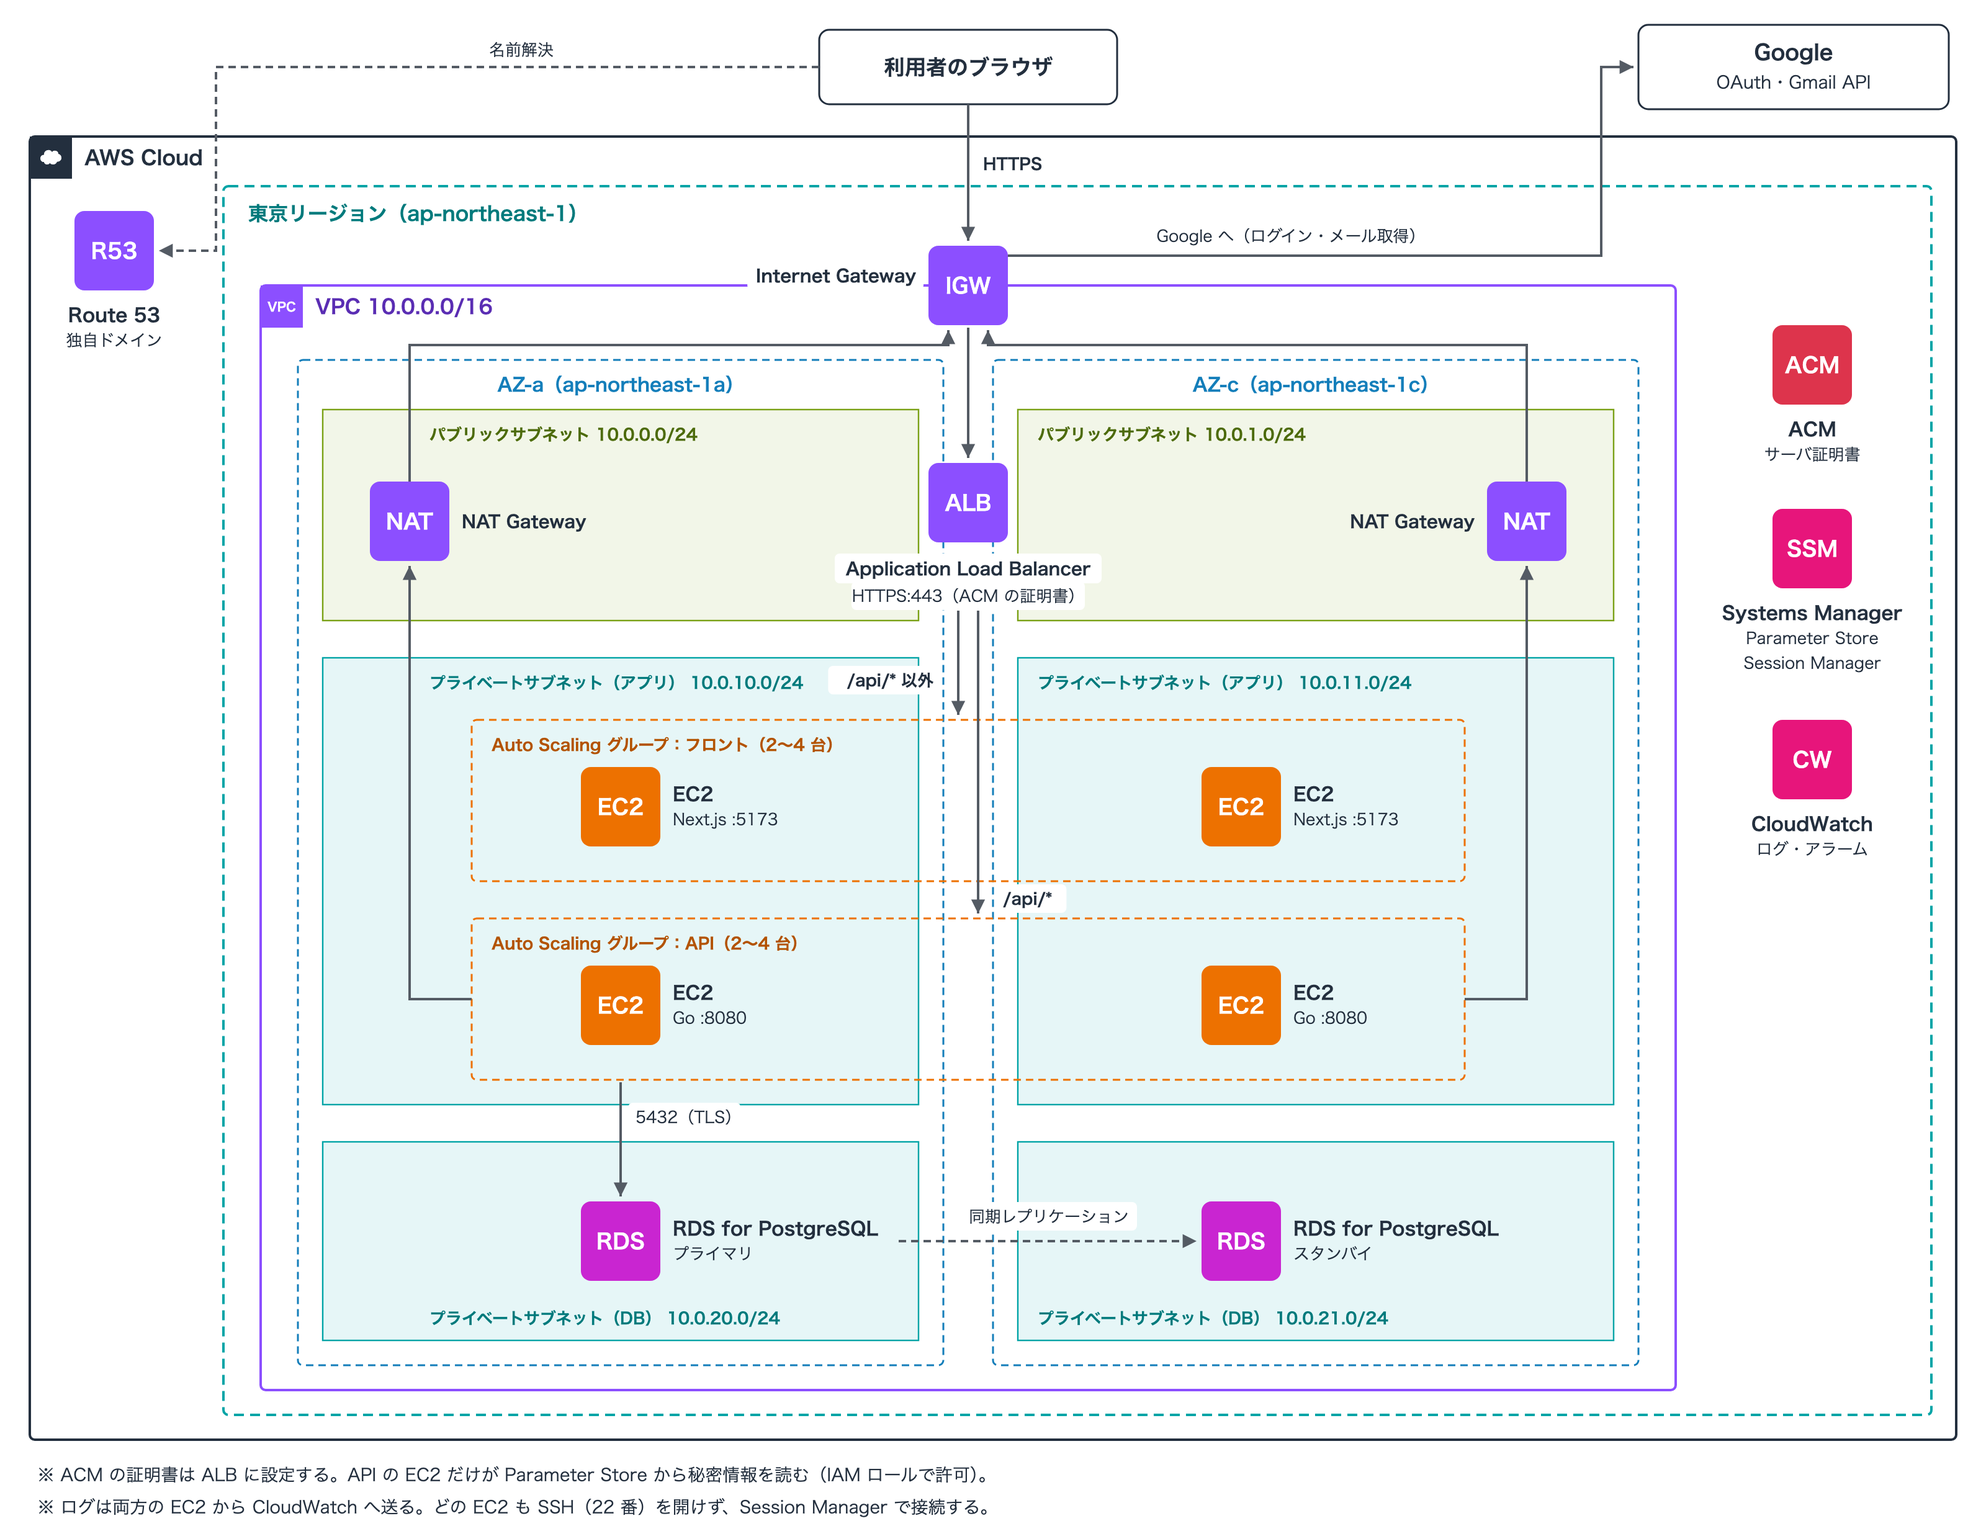
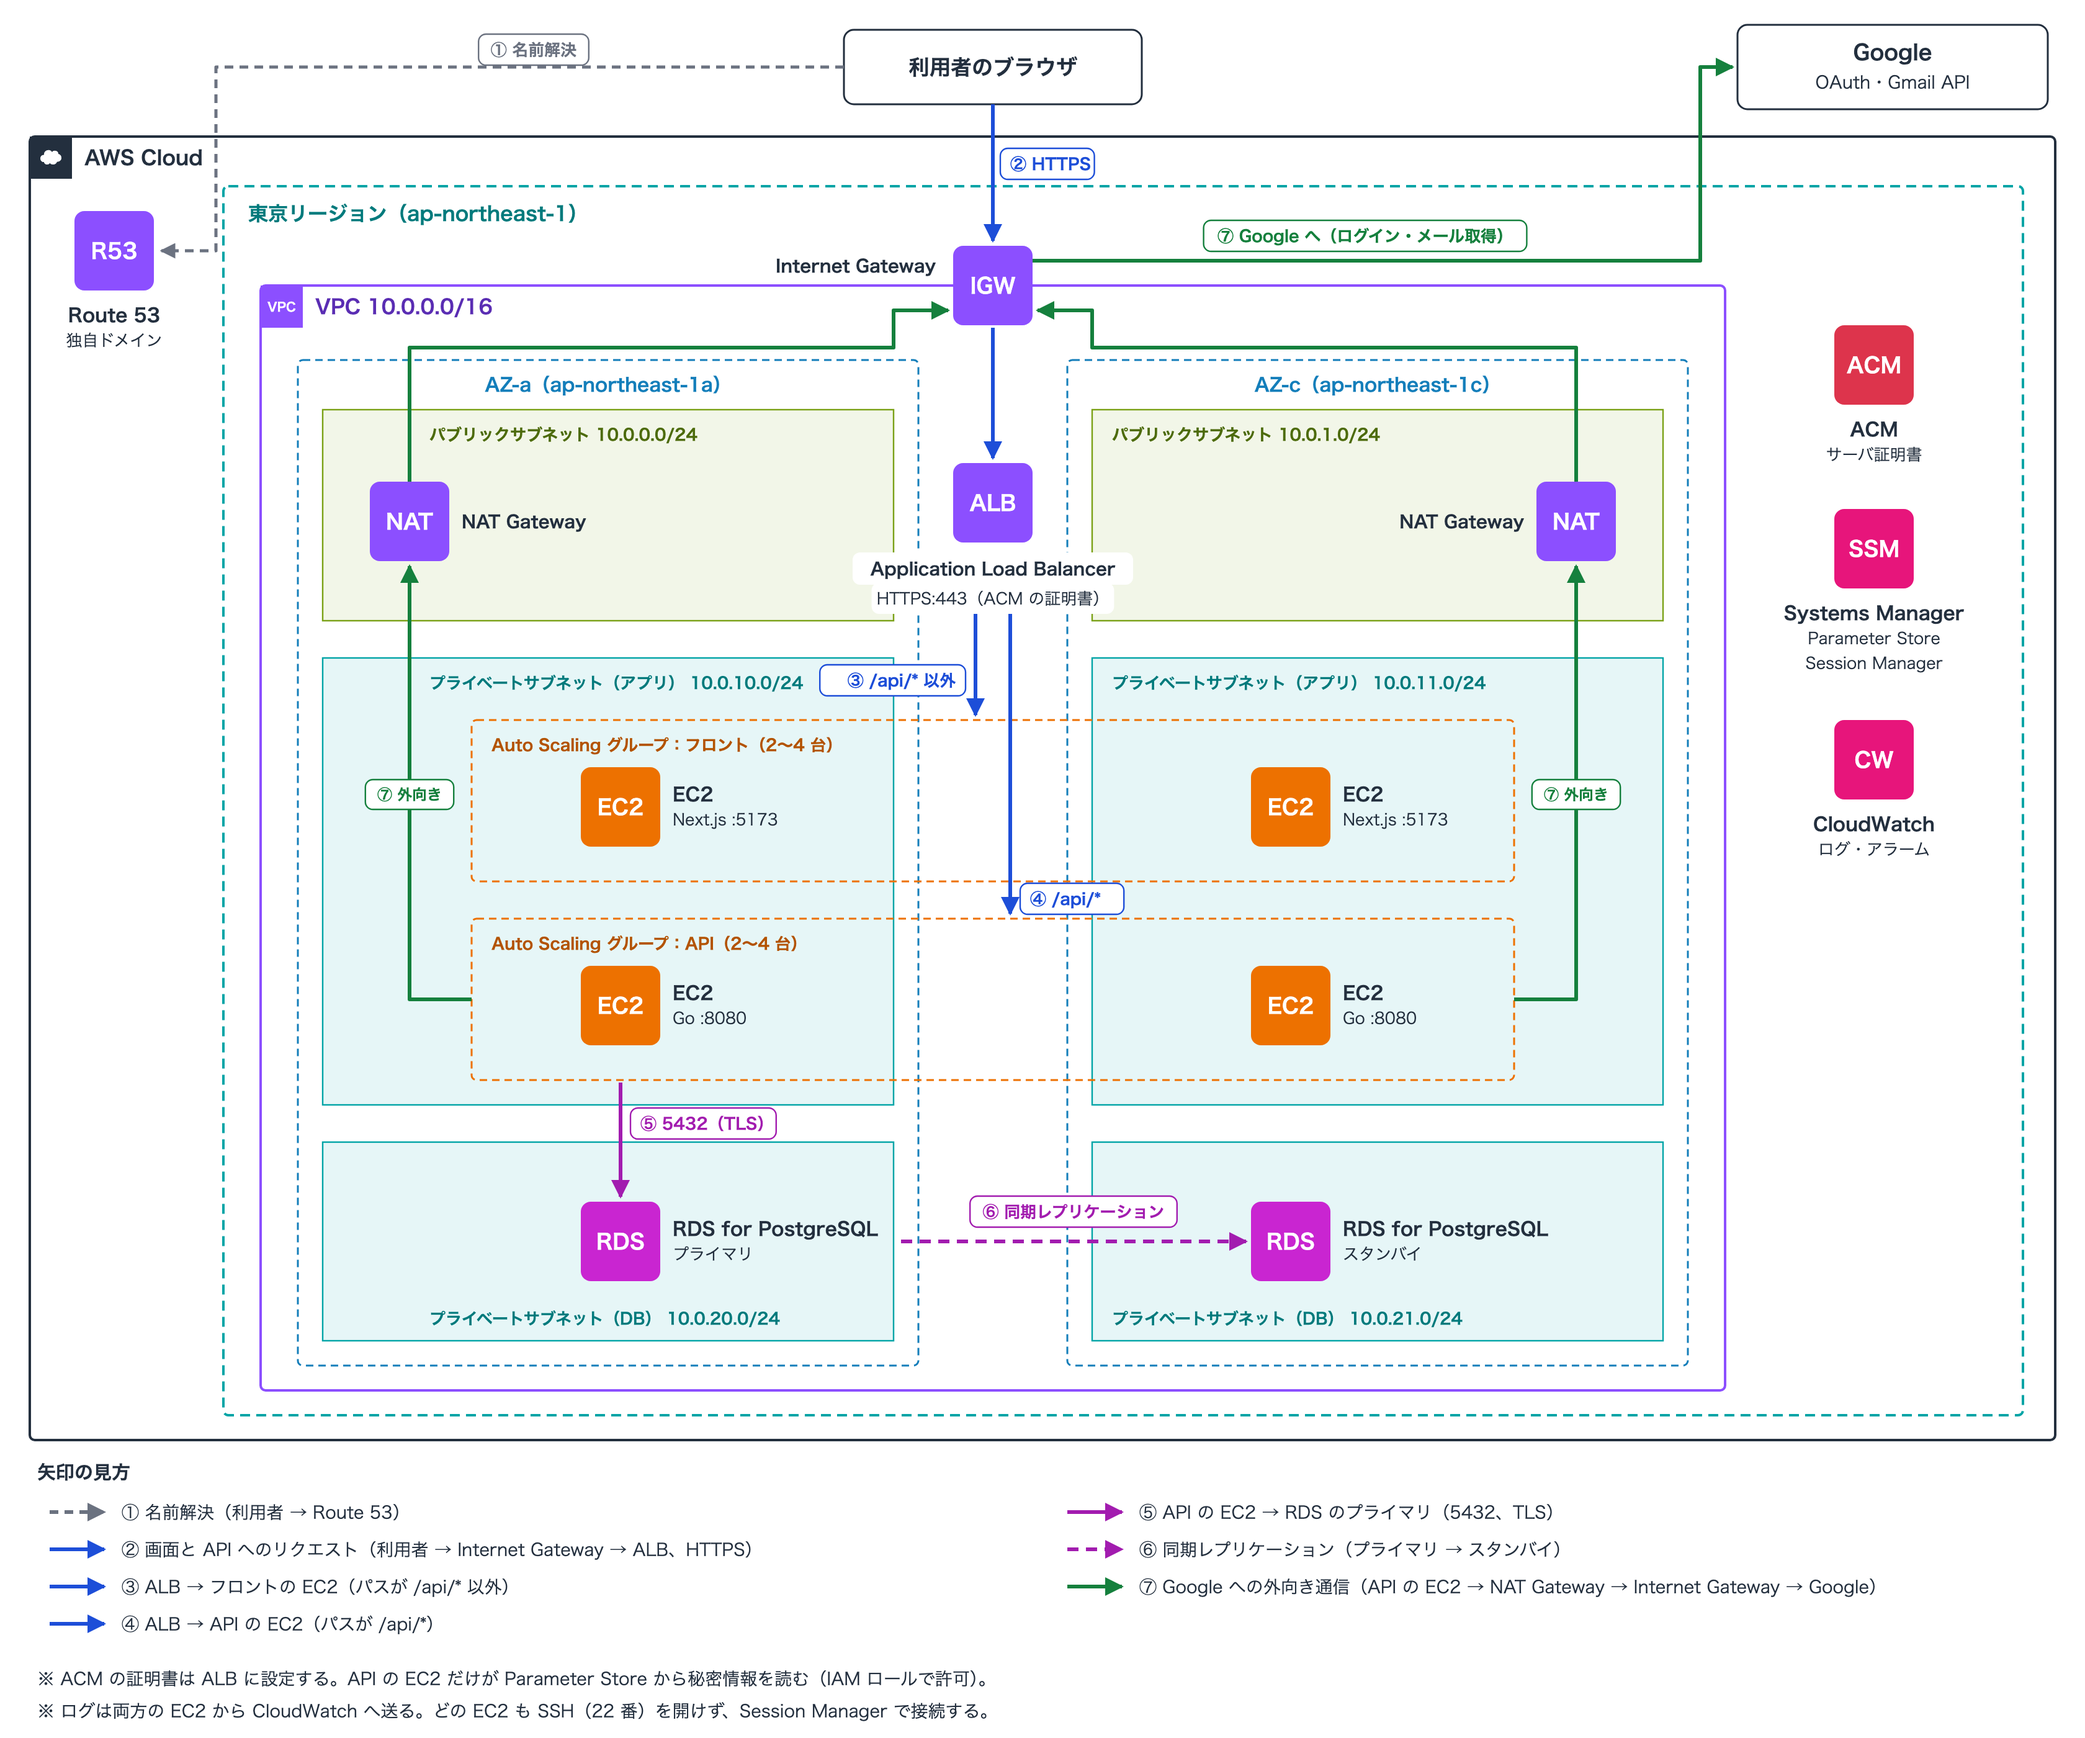
Step 7 の構成図：矢印を通信の種類ごとに色分けし、番号と凡例を付ける
矢印を太くし、利用者からのリクエスト・DB・Google への外向き通信・名前解決で
色を分けた。①〜⑦ の番号を付け、図の下に「矢印の見方」を追加。
AZ の間の通路を広げ、ALB からの 2 本の矢印が AZ の枠線と重ならないようにした。

Changed region(s): [[0.0, 0.0, 1.0, 0.9935], [0.9688, 0.1242, 1.0, 0.8383], [0.7188, 0.5589, 0.75, 0.5899]]

diff --git a/docs/step7-infra.md b/docs/step7-infra.md
@@ -62,6 +62,7 @@
 提出フォームには、この画像（[step7-infra-diagram.png](./step7-infra-diagram.png)）を添付する。元の SVG は [step7-infra-diagram.svg](./step7-infra-diagram.svg)。
 
 - AZ を縦の 2 列、サブネットを横の 3 段（パブリック／プライベート（アプリ）／プライベート（DB））にして描いている
+- 矢印は通信の種類ごとに色を分け（青：利用者からのリクエスト、赤紫：DB、緑：Google への外向き通信、灰の点線：名前解決）、①〜⑦ の番号の意味を図の下の「矢印の見方」に書いている
 - サービスのアイコンは、AWS のアイコンのカテゴリ色（ネットワークは紫、コンピュートは橙、データベースは赤紫、セキュリティは赤、管理は桃）の四角に、略称を書いたもので代用している
 - フロントと API の EC2 は、それぞれ 1 つの Auto Scaling グループ（2 つの AZ にまたがる）。図は最小の 2 台の状態で、増えると各 AZ に 2 台ずつ（計 4 台）まで並ぶ
 - ALB 自体は AWS が 2 つの AZ のパブリックサブネットに置く（ALB を作るときに、2 つの AZ のサブネットを指定する）。図では 2 つの AZ の間に描いている
